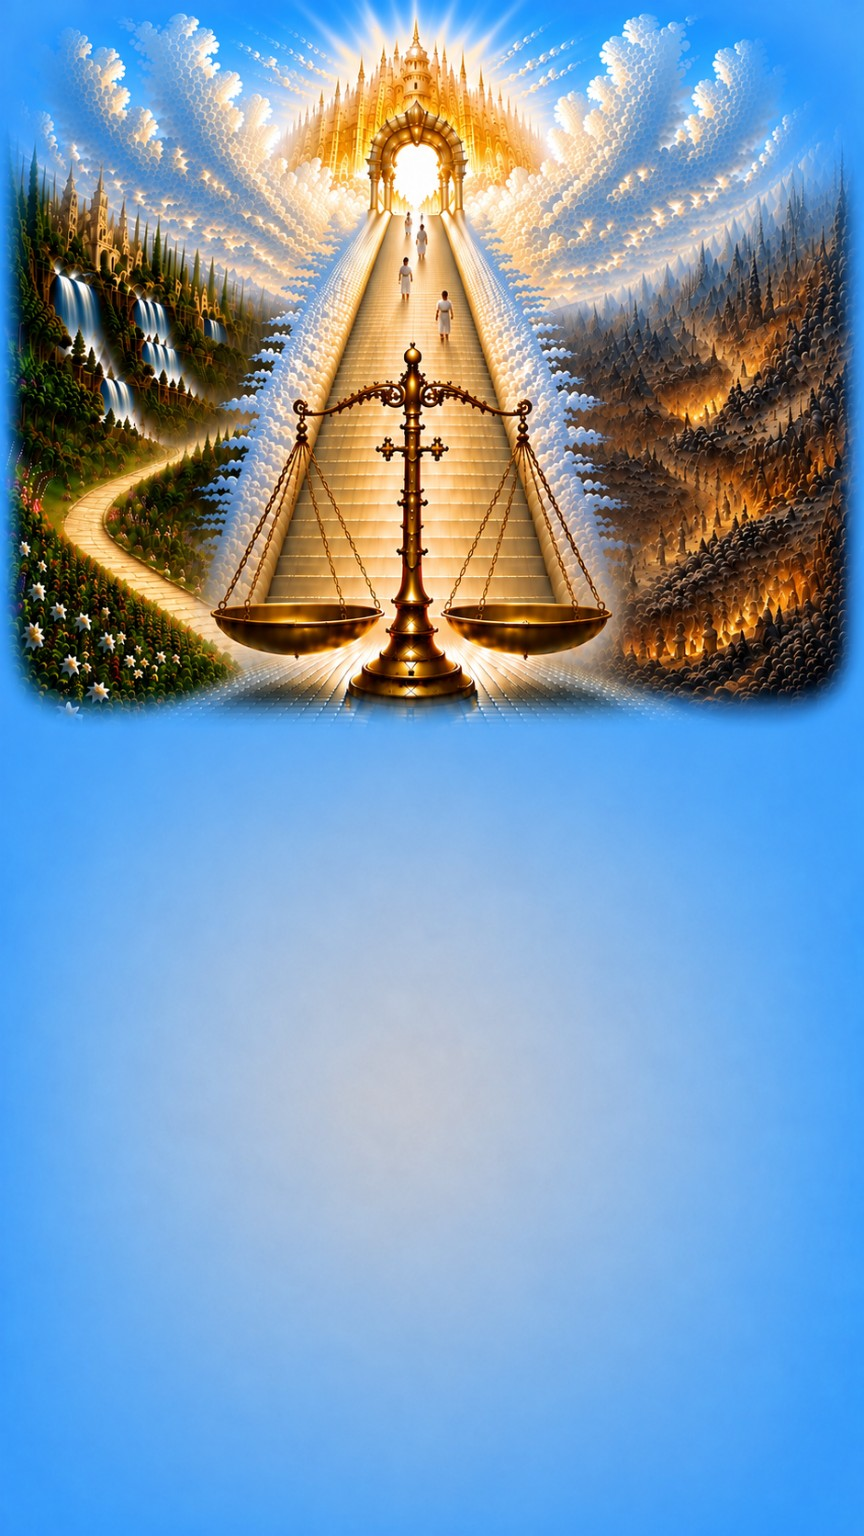
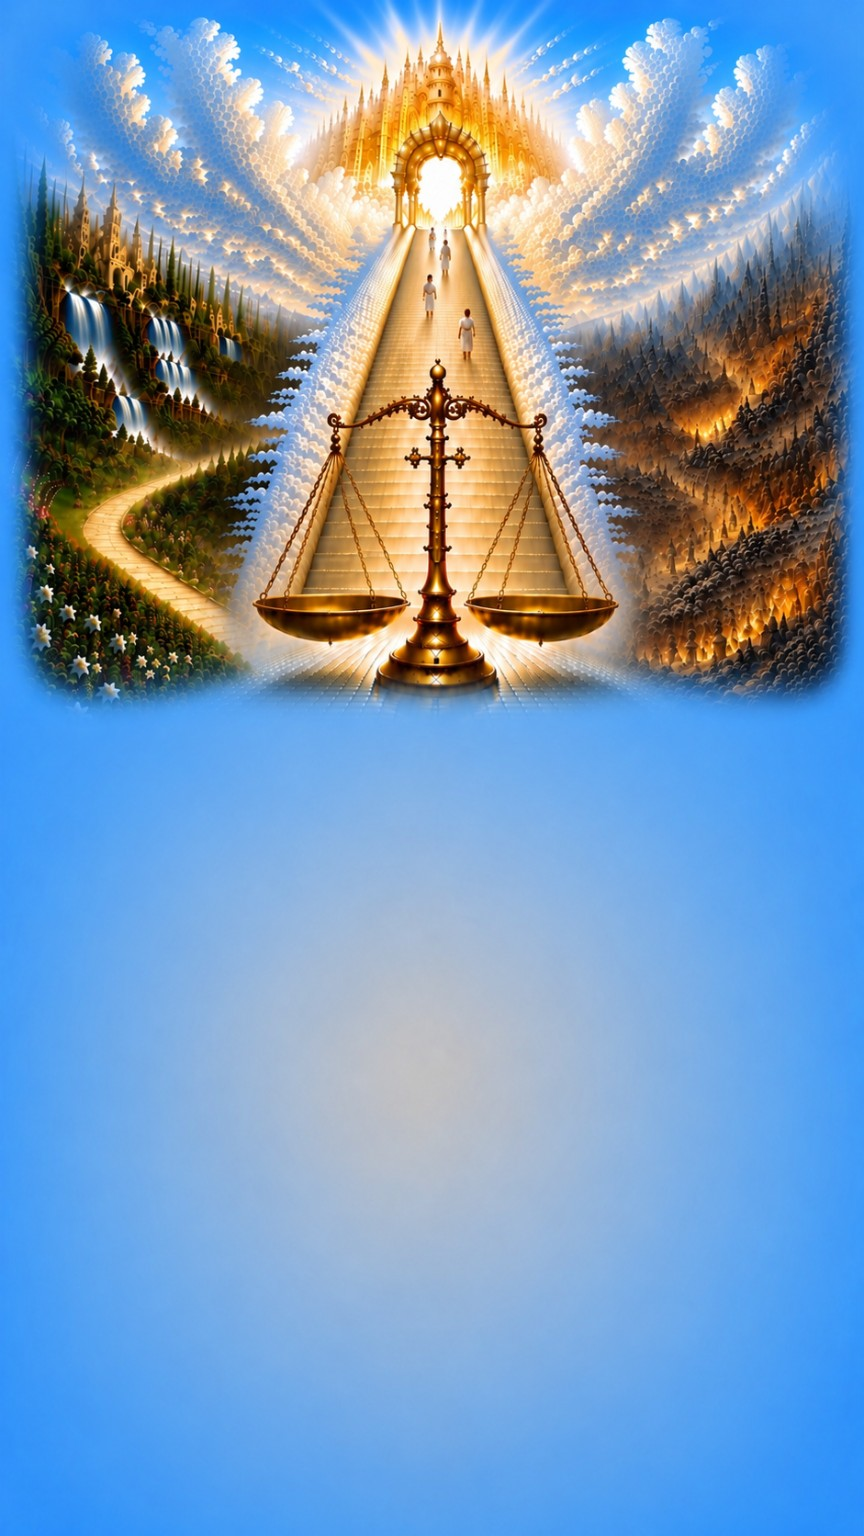
Add files via upload

diff --git a/sw.js b/sw.js
@@ -1,4 +1,4 @@
-const CACHE_NAME="oraciones-v3-1-294-juicio-2";
+const CACHE_NAME="oraciones-v3-1-295-juicio-2";
 const CORE=["./","./index.html","./manifest.json?v=v3-1-263-sin-calendario","./jszip.min.js?v=v3-1-63-share-history-persist","./jszip.min.js","./styles.css?v=3.1.292","./themes.css?v=v3-1-63-share-history-persist","./welcome.js?v=v3-1-63-share-history-persist","./config.js?v=v3-1-63-share-history-persist","./utils.js?v=v3-1-63-share-history-persist","./recent.js?v=v3-1-63-share-history-persist","./versiculos.js?v=v3-1-64-share-history-persistence-fix","./theme-mode.js?v=v3-1-63-share-history-persist","./app.js?v=3.1.293","./patches.js?v=v3-1-63-share-history-persist","./routines.js?v=v2-215-busqueda-tarjeta-fix-directo","./routines.js","./moments.js?v=v3-1-123-catalogacion-mejorada","./moments.js","./counters-v3183.js?v=v3-1-263-sin-calendario","./counters-v3183.js","./styles.css","./themes.css","./welcome.js","./config.js","./utils.js","./recent.js","./versiculos.js","./theme-mode.js","./app.js","./patches.js","./cross-ethiopian-mask.png","./icon-notas-detallado-v2210.png","./icon-versiculo-dia-v3250.png","./icon-dia-noche-v3255.png","./icon-192.png","./icon-512.png","./bg-morning.webp","./bg-day.webp","./bg-sunset.webp","./bg-night.webp","./card-sabiduria-v2240.jpg?v=v3-1-258-lora-solo-textos-offline","./card-sabiduria-v2240.jpg","./routine-morning-bible-v2216.webp","./routine-night-bible-v2216.webp","./shared-card-new-jerusalem-v2217.png","./card-salvacion-v2219.jpg?v=v3-1-258-lora-solo-textos-offline","./card-oracion-v2219.jpg?v=v3-1-258-lora-solo-textos-offline","./card-espiritu-santo-v2219.jpg?v=v3-1-258-lora-solo-textos-offline","./card-misericordia-v2219.jpg?v=v3-1-258-lora-solo-textos-offline","./card-alabanza-v2219.jpg?v=v3-1-258-lora-solo-textos-offline","./card-fortaleza-v2219.jpg?v=v3-1-258-lora-solo-textos-offline","./card-amor-v2219.jpg?v=v3-1-258-lora-solo-textos-offline","./card-esperanza-v2219.jpg?v=v3-1-258-lora-solo-textos-offline","./card-juicio-v2219.jpg?v=v3-1-258-lora-solo-textos-offline","./card-fe-v2219.jpg?v=v3-1-258-lora-solo-textos-offline","./card-segunda-venida-v2219.jpg?v=v3-1-258-lora-solo-textos-offline","./card-reino-dios-v2230.jpg?v=v3-1-258-lora-solo-textos-offline","./card-santidad-v2230.jpg?v=v3-1-258-lora-solo-textos-offline","./card-cristo-es-dios-v2230.jpg?v=v3-1-258-lora-solo-textos-offline","./card-fe-nueva-v3261.png","./card-dios-v3261.png","./card-sabiduria-2-v31282.png","./card-vida-eterna-2-v31282.png","./card-alabanza-2-v31282.png","./card-amor-2-v31282.png","./card-juicio-2-v31282.png","./card-esperanza-2-v31282.png","./card-oracion-2-v31282.png","./card-descanso-2-v31282.png","./card-fortaleza-2-v31282.png","./card-espiritu-santo-2-v31282.png","./card-misericordia-2-v31282.png","./card-salvacion-2-v31282.png","./card-segunda-venida-2-v31282.png","./card-reino-dios-2-v31282.png","./card-santidad-2-v31282.png","./card-dios-2-v31282.png","./card-cristo-es-dios-2-v31282.png","./card-fe-2-v31282.png","./Lora-Regular.woff2","./Lora-Bold.woff2","./Lora-Italic.woff2","./Lora-BoldItalic.woff2", "./card-amor-3-v2287.png", "./card-salvacion-3-v2287.png", "./card-vida-eterna-3-v2287.png"];
 self.addEventListener("install",event=>{event.waitUntil((async()=>{const keys=await caches.keys();await Promise.all(keys.map(k=>caches.delete(k)));const cache=await caches.open(CACHE_NAME);await cache.addAll(CORE);})());self.skipWaiting();});
 self.addEventListener("activate",event=>{event.waitUntil((async()=>{const keys=await caches.keys();await Promise.all(keys.filter(k=>k!==CACHE_NAME).map(k=>caches.delete(k)));await self.clients.claim();})());});
